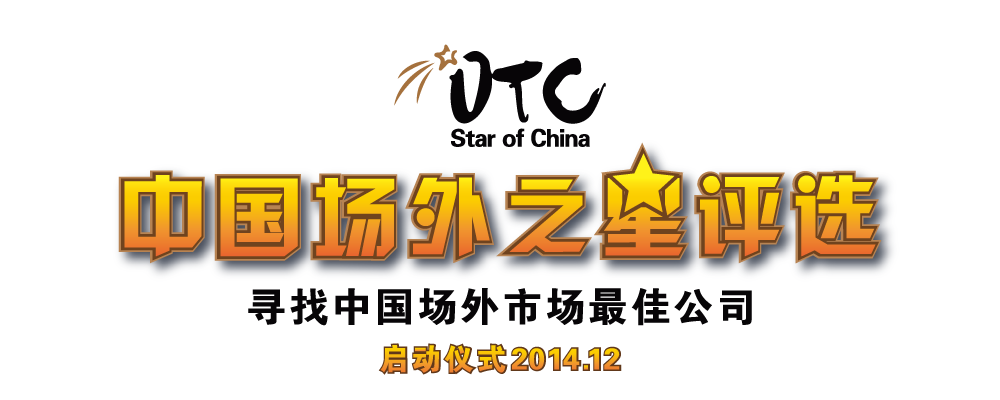
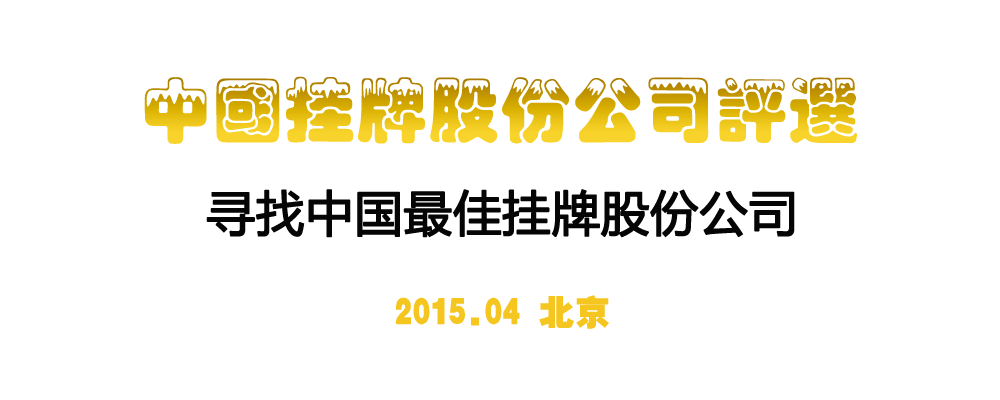
清大自己修改的

diff --git a/templates/qdvote/institution.html b/templates/qdvote/institution.html
@@ -20,7 +20,6 @@
       </h3>
       <p>
         清华大学国家金融研究院是中国人民银行、中国银行业监督管理委员会、中国证券监督管理委员会、中国保险监督管理委员会支持清华大学建立的科研机构。研究院充分利用已有的工作基础，组织优势的科研力量，在金融领域进行深入探索，积极开展高水平的学术研究、政策研究及人才培养等工作，在推动金融学科的建设的同时，为国家金融领域的发展提供有力的决策支撑。
-        <a target="_blank" href="http://www.pbcsf.tsinghua.edu.cn/NIFR/index.html" class="limore">More</a>
       </p>
     </div>
   </li>
@@ -35,12 +34,11 @@
     </div>
     <div class="lidetails">
       <h3>
-        清华五道口
+        清华金融评论
         <a href="http://www.pbcsf.tsinghua.edu.cn/" target="_blank">http://www.pbcsf.tsinghua.edu.cn/</a>
       </h3>
       <p>
-        清华大学五道口金融学院诞生于2012年3月29日，由中国人民银行与清华大学合作，在中国人民银行研究生部的基础上建设而成，是清华大学第十七个学院。学院以...
-        <a target="_blank" href="http://www.pbcsf.tsinghua.edu.cn/about/about.html" class="limore">More</a>
+        《清华金融评论》是由教育部主管，清华大学主办，清华大学五道口金融学院承办、每月公开发行的财经杂志，同时作为国家金融研究院的发声出口。杂志以分析研究经济金融形势、解读评论经济金融政策、建言献策经济金融实践为办刊内容，在深入、全面、客观地分析、解读、评论重大经济金融政策的基础上，为经济金融政策的制定者提供智囊服务，为商业性金融机构等经济组织的决策者提供咨询服务，为经济金融类院校和研究院所等科研机构的教学研究者搭建交流平台，最终达到实现“推动金融改革，引领金融实践”之目的。通过本次活动，《清华金融评论》凭借自身的行业影响力优势，以及高端的金融专业人士对话平台，帮助企业提高公众知名度、获取更多业务资源以及融资便利；同时，《清华金融评论》也将作为中小企业为监管者、金融机构建言献策的有效渠道，助力中小企业成长，促进多层次资本市场的健康发展。
       </p>
     </div>
   </li>
@@ -56,12 +54,47 @@
         <a href="http://www.qinghuainvest.com/" target="_blank">http://www.qinghuainvest.com/</a>
       </h3>
       <p>
-        清大益讯（北京）投资管理有限公司（以下简称“清大益讯”）总部坐落在清华大学科技园，系一家由清华大学校友办发起，和近50名清华大学EMBA校友共同出资组建的中国场外市场综合服务集团化公司...
-        <a target="_blank" href="http://www.qinghuainvest.com/page/html/company.php" class="limore">More</a>
+        清大益讯系一家由清华大学校友发起，近50名清华大学EMBA校友共同出资组建的中国场外市场综合服务集团化公司，分别在安徽、广东、吉林、浙江、江苏、福建、山东、宁夏、贵州、哈尔滨、四川及重庆等全国主要省市分设了10余家全资子公司，且在中国台湾、香港设有办事处。清大益讯致力于为中小企业对接资本市场牵线搭桥，为数十个中国OTC市场提供挂牌推荐金融服务，如今已帮助一百余家企业成功挂牌，帮助企业定向增发及发行债券，共计筹资3亿多元。同时，清大益讯开发了运营专门服务于挂牌企业的众筹平台，建立场外智库研究院以提供专业的数据分析及数据图，并从事中国场外市场指数为代表的大数据研究与开发业务。清大益讯已经成为上海、安徽股交中心挂牌数量最多、最佳推荐机构，并与宁夏经信委、贵州省中小企业局、吉林国资委、海南金融办签订了战略合作协议，协助当地政府服务全中国，在业内树立了良好的品牌。
+作为本次活动的主办方之一，清大益讯不仅能够助力入围企业品牌形象提升推广，还将优先推选入围、上榜企业的融资项目上线清大众筹平台。优秀的入围和上榜企业融资项目还将获得清大股权基金的优先投资，实现企业的进一步腾飞。
       </p>
     </div>
   </li>
 </ul>
+<ul class="listbox">
+  <li class="lititle">合作股交所</li>
+	<div style="clear:both"></div>
+	<li style='float:left;width:238px;'>全国中小企业股份转让系统</li>
+	<li style='float:left;width:238px;'>上海股权托管交易中心</li>
+	<li style='float:left;width:238px;'>天津股权交易所</li>
+	<li style='float:left;width:238px;'>齐鲁股权交易中心</li>
+	<li style='float:left;width:238px;'>重庆股份转让中心</li>
+	<li style='float:left;width:238px;'>安徽省股权托管交易中心</li>
+	<li style='float:left;width:238px;'>浙江股权交易中心</li>
+	<li style='float:left;width:238px;'>武汉股权托管交易中心</li>
+	<li style='float:left;width:238px;'>辽宁股权交易中心</li>
+	<li style='float:left;width:238px;'>海峡股权交易中心</li>
+	<li style='float:left;width:238px;'>新疆股权交易中心</li>
+	<li style='float:left;width:238px;'>甘肃股权交易中心</li>
+	<li style='float:left;width:238px;'>江苏股权交易中心</li>
+	<li style='float:left;width:238px;'>山西股权交易中心</li>
+	<li style='float:left;width:238px;'>广州股权交易中心</li>
+	<li style='float:left;width:238px;'>前海股权交易中心</li>
+	<li style='float:left;width:238px;'>吉林股权交易所</li>
+	<li style='float:left;width:238px;'>青岛蓝海股权交易中心</li>
+	<li style='float:left;width:238px;'>石家庄股权交易所</li>
+	<li style='float:left;width:238px;'>湖南股权交易所</li>
+	<li style='float:left;width:238px;'>青海股权交易中心</li>
+	<li style='float:left;width:238px;'>陕西股权交易中心</li>
+	<li style='float:left;width:238px;'>贵州股权金融资产交易中心</li>
+	<li style='float:left;width:238px;'>厦门两岸股权交易中心</li>
+	<li style='float:left;width:238px;'>广西北部湾股权交易所</li>
+	<li style='float:left;width:238px;'>成都（川藏）股权交易中心</li>
+	<li style='float:left;width:238px;'>大连股权交易中心</li>
+	
+	<div style="clear:both"></div>
+
+</ul>
+<!--
 <ul class="listbox">
   <li class="lititle">股交中心</li>
   <li class="s1">
@@ -107,6 +140,7 @@
     </div>
   </li>
 </ul>
+-->
 <ul class="listbox">
   <li class="lititle">战略合作媒体</li>
   <li class="liimg s3">

diff --git a/templates/qdvote/index.html b/templates/qdvote/index.html
@@ -5,10 +5,10 @@
 <div class="left">
   <div class="flow">
     <ul>
-      <li>2014.12.15~2015.1.5</li>
-      <li>2014.12.21~2015.1.5</li>
-      <li>2015.1.6~2015.1.10</li>
-      <li>2015.1.12~2015.1.18</li>
+      <li></li>
+      <li></li>
+      <li></li>
+      <li></li>
     </ul>
   </div>
   <div class="channel">
@@ -17,14 +17,17 @@
     </div>
     <div class="content">
       <p>
-        为响应国务院“大力发展多层次资本市场”、“决定进一步采取有力措施缓解企业融资成本高”的指导精神，《清华金融评论》与清大益讯（北京）投资管理有限公司（以下简称“清大益讯”）特发起第一届“中国场外市场最具投资价值企业”评选活动。
+        为响应国务院“大力发展多层次资本市场”、“决定进一步采取有力措施缓解企业融资成本高”的指导精神，《清华金融评论》与清大益讯（北京）投资管理有限公司（以下简称“清大益讯”）特发起第一届“中国挂牌股份公司评选——寻找中国最佳挂牌股份公司”活动。
       </p>
       <p>
-        本次活动旨在挖掘和完善中国场外市场的价值发现和投融资功能，增强中小企业规范运作意识，提升企业品牌形象，为拓宽场外市场中小企业的融资渠道搭建平台，促使投资者关注既富成长潜力又具备规范运作的场外市场优秀挂牌企业，促进场外市场、挂牌企业和投资者良性互动、健康成长，助力我国多层次资本市场的建立健全之路。
+        本次活动旨在挖掘和完善中国资本市场的价值发现和投融资功能，增强中小企业规范运作意识，提升企业品牌形象，为拓宽挂牌企业的融资渠道搭建平台，促使投资者关注既富成长潜力又具备规范运作的资本市场优秀挂牌企业，促进资本市场、挂牌企业和投资者良性互动、健康成长，助力我国多层次资本市场的建立健全之路。
       </p>
       <p>
-        评选过程将通过财务数据筛选、权威专家打分和全国网络票选三个阶段，评选出场外市场“最具投资价值企业50强”和“最佳创新成长企业50强”，颁奖典礼将于2015年1月22日在北京举行。届时，中国场外市场最具发展潜力的企业将齐聚一堂，共同探讨解决场外市场和中小企业在发展过程中面临的各种问题，并交流各方经验。
+        评选过程将通过专家评选和全国网络票选两个阶段，评选出挂牌企业“最具投资价值企业50强”和“最佳创新成长企业50强”，颁奖典礼将于2015年4月在北京举行。届时，中国资本市场最具发展潜力的挂牌企业将齐聚一堂，共同探讨解决我国资本市场和中小企业在发展过程中面临的各种问题，并交流各方经验。
       </p>
+	  <p>
+		同时，该评选活动将与五道口金融学院各项工作紧密结合，形成品牌效应，在活动举办后推出系列产品。《清华金融评论》将对有代表性的企业进行采访，并与金融案例中心合作，为案例中心提供资源和素材，同时丰富杂志内容；随着该评选活动的影响力进一步扩大，可考虑成立场外市场金融研究中心（暂定），搜集企业数据,与各股交所及相关企业深度合作,推动评选活动持续进行。此外，《清华金融评论》将通过该评选活动找寻资源，充实杂志内容，扩大发行和广告业务，同时促进运营方面的对外合作的开展，尤其是理事会潜在理事单位的招募，最终达成多方共赢。
+	  </p>
     </div>
   </div>
   <div class="channel">
@@ -77,29 +80,22 @@
     </div>
     <div class="content">
       <p>
-        <span class="stage">第一阶段：报名</span>
+        <span class="stage">第一阶段：初选</span>
       </p>
       <p>
-        在线提交报名资料，或下载报名表格发送至官方参选邮箱：
-        <a href="mailto:qinghuainvest@qinghuainvest.com" target="_blank" class="mail">qinghuainvest@qinghuainvest.com</a>
+        通过专家评委及券商等专业机构初选出两个奖项各自前100强企业名单。
       </p>
       <p>
-        <span class="stage">第二阶段：初选</span>
+        <span class="stage">第二阶段：网络票选</span>
       </p>
-      <p>由组委会根据行业分类、财务综合数据进行评分和排名，产生前200强企业名单。开放网络票选平台，开始接受在线投票。</p>
+      <p>公众通过微信关注“清华金融评论”（微信号：thf_review）和“清大益讯”（微信号：qingdayixun123），进入微信票选平台；或登录本次票选网站<a href="http://vote.qinghuainvest.com">http://vote.qinghuainvest.com</a>，接受网络票选，并最终评选出挂牌企业“最具投资价值企业50强”和“最佳创新成长企业50强”。</p>
       <p>
-        <span class="stage">第三阶段：复评</span>
-      </p>
-      <p>
-        入围前200强的企业经过评委打分审核，组委会进行汇总排名，产生中国场外市场“最具投资价值企业50强”榜单和“最佳创新成长企业50强”榜单
+        <span class="stage">第三阶段：颁奖典礼</span>
       </p>
       <p>
-        <span class="stage">第四阶段：终选&颁奖典礼</span>
+        颁奖典礼将于2015年4月在北京举行。届时，中国资本市场最具发展潜力的挂牌企业将齐聚一堂，共同探讨解决我国资本市场和中小企业在发展过程中面临的各种问题，并交流各方经验。
       </p>
-      <p>
-        汇总入围“最具投资价值企业50强”榜单和“最佳创新成长企业50强”榜单的100家企业的财务综合数据、专家意见和在线投票结果，最终确定中国场外市场“最具投资价值企业50强”榜单和“最佳创新成长企业50强”榜单。
-      </p>
-      <p class="stress">2015年1月将在北京举办隆重的颁奖盛会揭晓中国场外市场“最具投资价值企业50强”榜单和“最佳创新成长企业50强”榜单。</p>
+      <p class="stress">2015年4月19日将在北京举办隆重的颁奖盛会揭晓中国场外市场“最具投资价值企业50强”榜单和“最佳创新成长企业50强”榜单。</p>
     </div>
   </div>
 </div>

diff --git a/templates/qdvote/apply.html b/templates/qdvote/apply.html
@@ -6,10 +6,10 @@
   <div class="sigletitle">参选报名</div>
   <div class="flow">
     <ul>
-      <li>2014.12.15~2015.1.5</li>
-      <li>2014.12.21~2015.1.5</li>
-      <li>2015.1.6~2015.1.10</li>
-      <li>2015.1.12~2015.1.18</li>
+      <li></li>
+      <li></li>
+      <li></li>
+      <li></li>
     </ul>
   </div>
   <div class="download">
@@ -66,29 +66,22 @@
     </div>
     <div class="content">
       <p>
-        <span class="stage">第一阶段：报名</span>
+        <span class="stage">第一阶段：初选</span>
       </p>
       <p>
-        在线提交报名资料，或下载报名表格发送至官方参选邮箱：
-        <a href="mailto:qinghuainvest@qinghuainvest.com" target="_blank" class="mail">qinghuainvest@qinghuainvest.com</a>
+        通过专家评委及券商等专业机构初选出两个奖项各自前100强企业名单。
       </p>
       <p>
-        <span class="stage">第二阶段：初选</span>
+        <span class="stage">第二阶段：网络票选</span>
       </p>
-      <p>由组委会根据行业分类、财务综合数据进行评分和排名，产生前200强企业名单。开放网络票选平台，开始接受在线投票。</p>
+      <p>公众通过微信关注“清华金融评论”（微信号：thf_review）和“清大益讯”（微信号：qingdayixun123），进入微信票选平台；或登录本次票选网站<a href="http://vote.qinghuainvest.com">http://vote.qinghuainvest.com</a>，接受网络票选，并最终评选出挂牌企业“最具投资价值企业50强”和“最佳创新成长企业50强”。</p>
       <p>
-        <span class="stage">第三阶段：复评</span>
-      </p>
-      <p>
-        入围前200强的企业经过评委打分审核，组委会进行汇总排名，产生中国场外市场“最具投资价值企业”50强榜单和“最具发展企业”50强榜单
+        <span class="stage">第三阶段：颁奖典礼</span>
       </p>
       <p>
-        <span class="stage">第四阶段：终选&颁奖典礼</span>
+        颁奖典礼将于2015年4月在北京举行。届时，中国资本市场最具发展潜力的挂牌企业将齐聚一堂，共同探讨解决我国资本市场和中小企业在发展过程中面临的各种问题，并交流各方经验。
       </p>
-      <p>
-        汇总入围“最具投资价值企业50强”榜单和“最佳创新成长企业50强”榜单的100家企业的财务综合数据、专家意见和在线投票结果，最终确定中国场外市场“最具投资价值企业50强”榜单和“最佳创新成长企业50强”榜单。
-      </p>
-      <p class="stress">2015年1月将在北京举办隆重的颁奖盛会揭晓中国场外市场“最具投资价值企业50强”榜单和“最佳创新成长企业50强”榜单。</p>
+      <p class="stress">2015年4月19日将在北京举办隆重的颁奖盛会揭晓中国场外市场“最具投资价值企业50强”榜单和“最佳创新成长企业50强”榜单。</p>
     </div>
   </div>
 </div>

diff --git a/templates/qdvote/base_vote.html b/templates/qdvote/base_vote.html
@@ -13,13 +13,13 @@
       <div class="wrap">
         <!-- <img src="{% static 'images/vote_title.png'%}" class="img" /> -->
         <p class="first">
-          为响应国务院“大力发展多层次资本市场”、“决定进一步采取有力措施缓解企业融资成本高”的指导精神，《清华金融评论》与清大益讯（北京）投资管理有限公司（以下简称“清大益讯”）特发起第一届“中国场外市场最具投资价值企业”评选活动。
+          为响应国务院“大力发展多层次资本市场”、“决定进一步采取有力措施缓解企业融资成本高”的指导精神，《清华金融评论》与清大益讯（北京）投资管理有限公司（以下简称“清大益讯”）特发起第一届“中国挂牌股份公司评选——寻找中国最佳挂牌股份公司”活动。
         </p>
         <p>
-          本次活动旨在挖掘和完善中国场外市场的价值发现和投融资功能，增强中小企业规范运作意识，提升企业品牌形象，为拓宽场外市场中小企业的融资渠道搭建平台，促使投资者关注既富成长潜力又具备规范运作的场外市场优秀挂牌企业，促进场外市场、挂牌企业和投资者良性互动、健康成长，助力我国多层次资本市场的建立健全之路。
+          本次活动旨在挖掘和完善中国资本市场的价值发现和投融资功能，增强中小企业规范运作意识，提升企业品牌形象，为拓宽挂牌企业的融资渠道搭建平台，促使投资者关注既富成长潜力又具备规范运作的资本市场优秀挂牌企业，促进资本市场、挂牌企业和投资者良性互动、健康成长，助力我国多层次资本市场的建立健全之路。
         </p>
         <p>
-          评选过程将通过财务数据筛选、权威专家打分和全国网络票选三个阶段，评选出场外市场“最具投资价值企业50强”和“最佳创新成长企业50强”，颁奖典礼将于2015年1月22日在北京举行。届时，中国场外市场最具发展潜力的企业将齐聚一堂，共同探讨解决场外市场和中小企业在发展过程中面临的各种问题，并交流各方经验。
+          评选过程将通过专家评选和全国网络票选两个阶段，评选出挂牌企业“最具投资价值企业50强”和“最佳创新成长企业50强”，颁奖典礼将于2015年4月在北京举行。届时，中国资本市场最具发展潜力的挂牌企业将齐聚一堂，共同探讨解决我国资本市场和中小企业在发展过程中面临的各种问题，并交流各方经验。
         </p>
       </div>
     </div>

diff --git a/templates/qdvote/voteEntry.html b/templates/qdvote/voteEntry.html
@@ -6,7 +6,7 @@
   <div class="channel">
     <div class="sigletitle">在线投票</div>
     <div class="content">
-      <p>评选过程将通过财务数据筛选、权威专家打分和全国网络票选三个阶段，评选出场外市场“最具投资价值企业50强”和“最佳创新成长企业50强”。最具投资价值奖项旨在发现场外市场业绩优异、治理规范的挂牌企业；最佳创新成长奖项则为具有独特商业模式和巨大成长空间的初创企业提供了展示的舞台。</p>
+      <p>评选过程将通过专家评委及券商等专业机构初选和全国网络微信票选两个阶段，评选出挂牌企业“最具投资价值企业50强”和“最佳创新成长企业50强”。最具投资价值奖项旨在发现挂牌市场业绩优异、治理规范的挂牌企业；最佳创新成长奖项则为具有独特商业模式和巨大成长空间的初创企业提供了展示的舞台。</p>
       <div class="ve cfix">
         <h3>【最具投资价值企业】</h3>
         <p>发现场外市场业绩优异、治理规范的挂牌企业</p>

diff --git a/static/css/style.css b/static/css/style.css
@@ -280,13 +280,13 @@ input[type="text"]:focus{
   color: #666;
 }
 .listbox .s1{
-  height: 128px;
+  height: 434px;
   margin-bottom: 5px;
   border: 1px solid #e9e9e9;
 }
 .listbox .s1 .liimg p{
   width: 220px;
-  height: 128px;
+  height: 434px;
 }
 .listbox .ss1,
 .listbox .ss1 .liimg p{

diff --git a/static/js/script.js b/static/js/script.js
@@ -1,6 +1,6 @@
 var voteYear = 2015;
-var voteMonth = 1;
-var voteDay = 22;
+var voteMonth = 4;
+var voteDay = 19;
 //左侧导航条偏移数量
 var offset_count = 0;
 //验证码发送间隔时间
